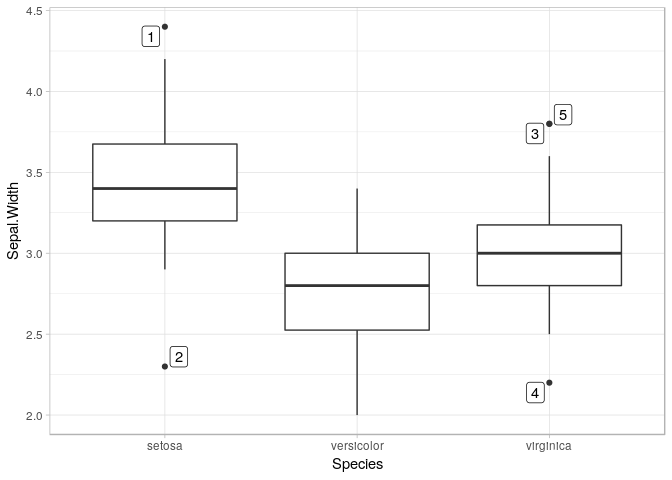
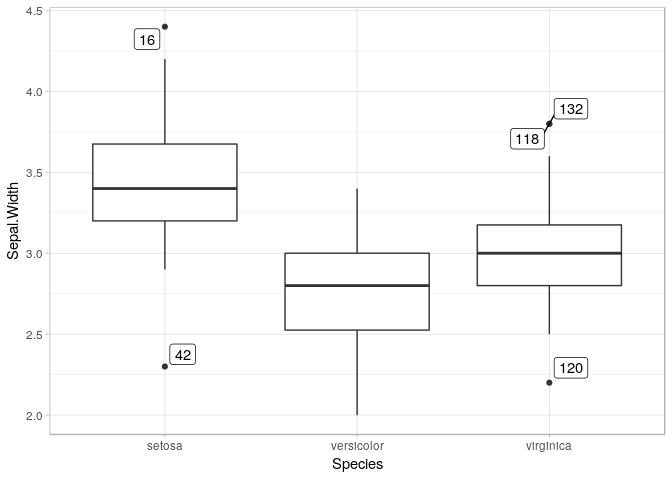
labels change

diff --git a/markdowns/boxplot_label_outliers.md b/markdowns/boxplot_label_outliers.md
@@ -14,6 +14,7 @@ Subset data
 -----------
 
 ``` r
+iris$name <- rownames(iris)
 iqr_constant <- 1.5 # see ?geom_boxplot
 iris_subset <- iris %>% 
   group_by(Species) %>% 
@@ -35,7 +36,7 @@ ggplot(iris, aes(x=Species, y=Sepal.Width)) +
     geom_label_repel(
       data=iris_subset, 
       aes(x=Species, y=Sepal.Width), 
-      label=rownames(iris_subset), 
+      label=iris_subset$name, 
       inherit.aes=F
     ) + 
     theme_light()
